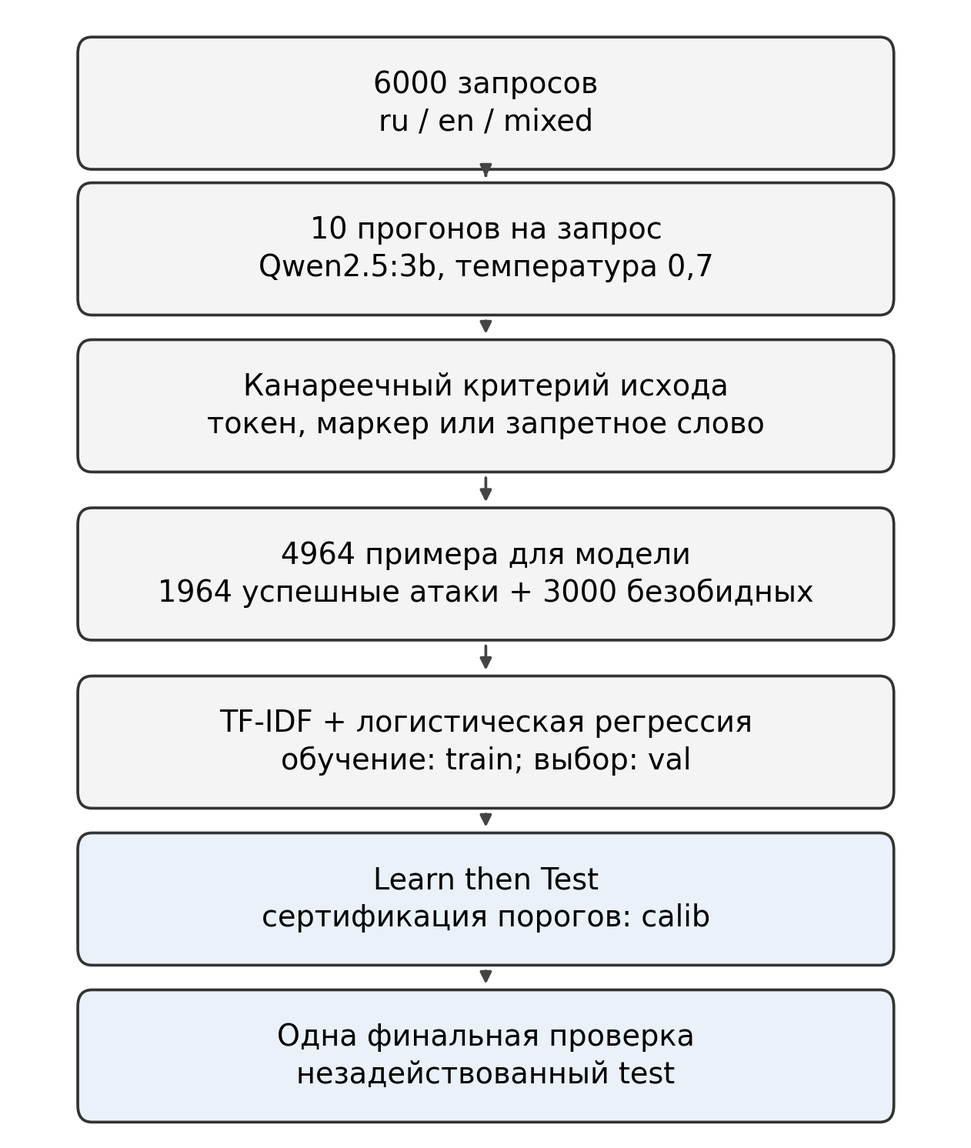
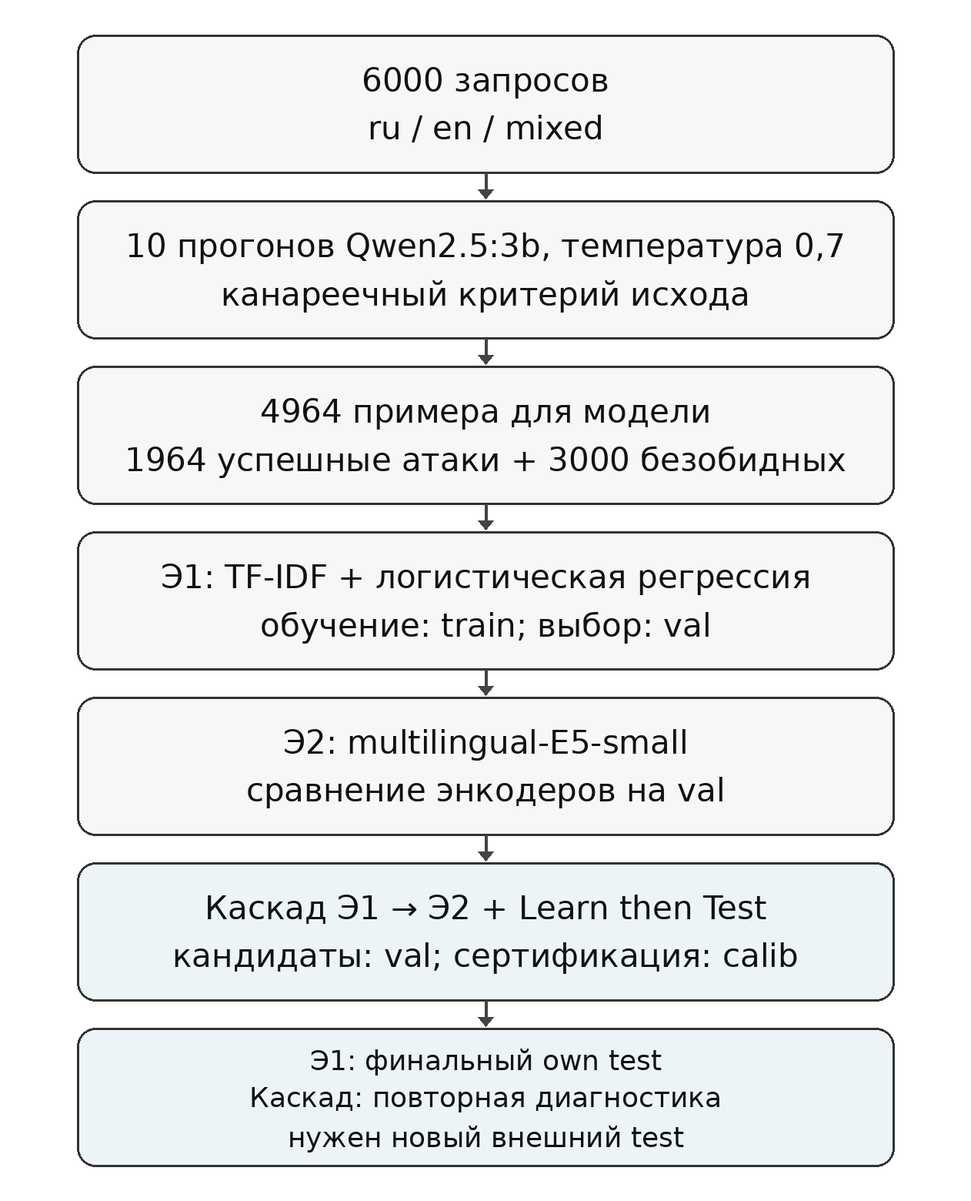
Добавить постановку задачи и публикацию PDF в CI

Changed region(s): [[0.0618, 0.0308, 0.9271, 0.9866], [0.8962, 0.0308, 0.9271, 0.0617]]

diff --git a/article.tex b/article.tex
@@ -11,7 +11,7 @@
 \misisauthor{Х.~Обада}{кафедра инженерной кибернетики НИТУ «МИСиС»}{Москва, Россия}{}
 
 \abstract{%
-Рассматривается построение фильтра прямых промпт-инъекций на входе локального LLM-сервиса при ограничении на вычислительный бюджет. В отличие от каскадных фильтров, в которых порядок эшелонов и границы зоны эскалации задаются эвристически, предлагается упорядочивать эшелоны по измеряемым стоимости и разрешающей способности оценки, а пороги маршрутизации выбирать процедурой распределённо-свободного контроля риска Learn then Test. Метод обеспечивает верхнюю границу доли пропущенных атак $\alpha$ с вероятностью не меньше $1-\delta$ при сохранении предположений калибровки. Для разметки по факту успеха используются утечка канареечного токена из системного промпта и другие детерминированные нарушения без LLM-судьи. Собственный русско-английский генератор включает смешанные запросы и выравнивание распределения длин между классами. Выполнено 60000 прогонов для 6000 запросов; экспериментально проверен первый эшелон на основе TF-IDF и логистической регрессии. На отложенном тесте из 973 запросов для $\alpha=0{,}05$ получены FNR $=0{,}76\%$, FPR $=0\%$ и взвешенный FNR $=0{,}92\%$; для $\alpha=0{,}02$ ошибок не зарегистрировано. Оценка средней задержки и доли запросов, доходящих до тяжёлого эшелона, относится к следующему этапу исследования полного каскада.
+Рассматривается построение фильтра прямых промпт-инъекций на входе локального LLM-сервиса при ограничении на вычислительный бюджет. В отличие от каскадных фильтров, в которых порядок эшелонов и границы зоны эскалации задаются эвристически, предлагается упорядочивать эшелоны по измеряемым стоимости и разрешающей способности оценки, а пороги маршрутизации выбирать процедурой распределённо-свободного контроля риска Learn then Test. Метод обеспечивает верхнюю границу доли пропущенных атак $\alpha$ с вероятностью не меньше $1-\delta$ при сохранении предположений калибровки. Для разметки по факту успеха используются утечка канареечного токена из системного промпта и другие детерминированные нарушения без LLM-судьи. Собственный русско-английский генератор включает смешанные запросы и выравнивание распределения длин между классами; выполнено 60000 прогонов для 6000 запросов. Построен каскад TF-IDF и multilingual-E5-small, в котором энкодер вызывается только для серой зоны первого эшелона. На calib для $\alpha=0{,}05$ получены FNR $=3{,}05\%$, FPR $=0\%$, доля эскалаций $3{,}33\%$ и стоимость $1{,}647$ мс на запрос; для $\alpha=0{,}02$ --- FNR $=0{,}25\%$, FPR $=0\%$, эскалации $1{,}27\%$ и $0{,}847$ мс. Повторная диагностика на ранее использованном own test дала FNR $1{,}53\%$ и $0\%$ соответственно при FPR $=0\%$; она не считается независимой проверкой.
 }
 
 \keywords{%
@@ -38,11 +38,11 @@
 \begin{figure}[t]
   \centering
   \includegraphics[width=0.94\columnwidth]{figures/method.png}
-  \caption{Конвейер разметки, обучения, калибровки и финальной проверки}
+  \caption{Конвейер разметки, выбора эшелонов, калибровки каскада и проверки}
   \label{fig:method}
 \end{figure}
 
-На момент подготовки работы автором не обнаружено решений, сочетающих такую калибровку каскада, разметку по факту успеха и отдельный контроль качества на русском и английском языках. Практическая реализация предусматривает шлюз с OpenAI-совместимым API. Экспериментальная часть настоящей статьи ограничена первым входным детектором; свойства полного каскада и стоимость эскалации исследуются отдельно.
+На момент подготовки работы автором не обнаружено решений, сочетающих такую калибровку каскада, разметку по факту успеха и отдельный контроль качества на русском и английском языках. Практическая реализация предусматривает шлюз с OpenAI-совместимым API. Экспериментальная часть включает выбор энкодера, калибровку полного каскада, измерение стоимости и доли эскалаций; независимая внешняя проверка остаётся отдельной задачей.
 
 \section{Связанные работы}
 
@@ -55,6 +55,12 @@ DataSentinel использует проверку известного отве
 Русскоязычные обзоры описывают методы фильтрации, изоляции контекста и обучения на возмущённых данных~\cite{mudarova2024, velichko2025}. Таксономия лингвистических уязвимостей и примеры атак на русском языке рассмотрены в~\cite{zyryanova2024}. В отличие от работ, ограниченных сравнением качества классификаторов, здесь дополнительно используется LTT: калибровка сводится к проверке статистических гипотез о риске~\cite{angelopoulos2025}, а кандидаты формируются до независимой калибровочной выборки, как в схеме Pareto Testing~\cite{laufer2023}.
 
 Прикладные нейросетевые решения и сравнение современных подходов к детекции представлены в сборниках кафедры~\cite{misis2024, korotkikh2025}. Более общая задача распределённого контроля доступа рассмотрена Hammoud и Tarkhanov~\cite{hammoud2025}. Настоящая работа отличается предметом защиты и использует статистический контроль именно доли пропущенных промпт-инъекций.
+
+\section{Постановка задачи}
+
+Рассматривается локальный LLM-сервис, на вход которого поступает пользовательский запрос $x$ на русском, английском или смешанном языке вместе со скрытой системной инструкцией. Требуется построить входной фильтр, который возвращает решение «пропустить» или «заблокировать» до обращения к защищаемой модели. Положительным классом является не любой запрос с предполагаемым вредоносным намерением, а прямая промпт-инъекция, фактически приведшая к заданному нарушению системной инструкции.
+
+Пусть $R$ --- доля пропущенных успешных атак, а $T$ --- вычислительная стоимость проверки одного запроса. Для заданных $\alpha$ и $\delta$ требуется выбрать состав эшелонов и их пороги так, чтобы с вероятностью не меньше $1-\delta$ выполнялось $R\leq\alpha$, минимизируя среднюю стоимость $\mathbb{E}[T]$ на целевом оборудовании. Доля ложных блокировок FPR и доля запросов, эскалированных на более дорогой эшелон, измеряются отдельно. Решение должно использовать общий порядок калибровки без ручного перебора порогов при смене языка, оборудования или защищаемой модели.
 
 \section{Метод}
 
@@ -79,7 +85,7 @@ DataSentinel использует проверку известного отве
 
 Исходный корпус содержит 6000 строк: 3000 кандидатов в атаки и 3000 безобидных запросов. Каждая строка десять раз обработана моделью Qwen2.5:3b~\cite{qwen2024} с температурой $0{,}7$. Всего получено 60000 ответов. После постобработки успешными оказались 1964 атаки, то есть $65{,}5\%$ кандидатов. Для обучения и оценки детектора использованы 4964 строки; 1036 неуспешных атак сохранены отдельно.
 
-Варианты одного шаблона объединены по \texttt{group\_id}. Разбиение выполнено алгоритмом StratifiedGroupKFold с пятью folds, \texttt{random\_state=42} и стратификацией по метке, языку и технике. Folds 0--1 образуют train, folds 2, 3 и 4 соответственно val, calib и test. Состав частей приведён в таблице~\ref{tab:split}. Пересечений групп между частями нет. Train служит для обучения, val --- для выбора конфигурации и кандидатов порогов, calib --- для сертификации, test --- для одной финальной проверки.
+Варианты одного шаблона объединены по \texttt{group\_id}. Разбиение выполнено алгоритмом StratifiedGroupKFold с пятью folds, \texttt{random\_state=42} и стратификацией по метке, языку и технике. Folds 0--1 образуют train, folds 2, 3 и 4 соответственно val, calib и test. Состав частей приведён в таблице~\ref{tab:split}. Пересечений групп между частями нет. Train служит для обучения, val --- для выбора конфигурации и кандидатов порогов, calib --- для сертификации. Test сначала применяется один раз для финальной проверки Э1, а затем только для повторной диагностики замороженного каскада; независимым тестом каскада он не является.
 
 \begin{table}[t]
   \caption{Групповое разбиение собственного корпуса}
@@ -97,13 +103,38 @@ DataSentinel использует проверку известного отве
   \end{tabular}
 \end{table}
 
-\subsection{Входной детектор}
+\subsection{Маршрутизация в эшелонированном фильтре}
+
+Предлагаемый фильтр содержит нормализатор и последовательность детекторов с возрастающей стоимостью проверки. Нормализация приводит Unicode к форме NFKC, удаляет невидимые символы и сводит визуально сходные буквы к единому написанию. Первый эшелон использует лексические признаки, второй --- мультиязычный энкодер. Их качество и стоимость измеряются на целевом оборудовании до включения в каскад; ниже проверяется полная маршрутизация Э1--Э2.
+
+Эшелон $i$ возвращает оценку $s_i(x)\in[0,1]$ и имеет два порога $\lambda_i^{lo}\leq\lambda_i^{hi}$. Его решение задаётся как
+\begin{equation}
+a_i(x)=
+\begin{cases}
+\text{пропустить}, & s_i(x)<\lambda_i^{lo},\\
+\text{эскалировать}, & \lambda_i^{lo}\leq s_i(x)<\lambda_i^{hi},\\
+\text{заблокировать}, & s_i(x)\geq\lambda_i^{hi}.
+\end{cases}
+\label{eq:routing}
+\end{equation}
+Таким образом, очевидные случаи обрабатываются дешёвым эшелоном, а следующий получает только серую зону. Это соответствует общей идее каскада Виолы--Джонса~\cite{viola2001}. В вырожденном случае $\lambda_i^{lo}=\lambda_i^{hi}$ серой зоны нет; именно такая конфигурация исследуется ниже для первого эшелона.
+
+Пусть $t_i$ --- средняя стоимость эшелона $i$, а $q_i$ --- доля запросов, дошедших до него, причём $q_1=1$. Средняя стоимость фильтрации равна
+\begin{equation}
+\mathbb{E}[T]=t_0+\sum_{i=1}^{M}q_i t_i,
+\label{eq:cost}
+\end{equation}
+где $t_0$ --- стоимость нормализации. Порядок эшелонов и кандидаты порогов выбираются на val по стоимости и разрешающей способности; затем LTT сертифицирует конфигурацию целиком на calib. Доли пропусков отдельных эшелонов не перемножаются, поскольку их ошибки могут быть зависимы: одна и та же трудная атака способна обмануть несколько детекторов. Итоговый FNR вычисляется только по окончательному решению каскада.
+
+Для двух эшелонов зафиксировано $\lambda_1^{lo}=0{,}5$. Три кандидата образованы парами уже выбранных на val порогов без нового поиска: $(\lambda_1^{hi},\lambda_2)$ равны $(0{,}6356704134;0{,}5260268237)$, $(0{,}6706789297;0{,}5776942018)$ и $(0{,}7237584272;0{,}6836875963)$. Их порядок соответствует возрастанию оценки $t_1+q_2t_2$ на val. На calib и test стоимость измеряется реальными вызовами: Э1 обрабатывает всю часть, Э2 --- только серую зону; сетевые расходы и нормализатор не входят в замер.
+
+\subsection{Первый эшелон}
 
 Детектор получает только текст запроса и возвращает оценку $s_\theta(x)$, интерпретируемую как оценку вероятности успешной атаки. Блокировка соответствует условию $s_\theta(x)\geq\lambda$. Использованы символьные TF-IDF-признаки \texttt{char\_wb} с $n$-граммами длиной 3--5, \texttt{sublinear\_tf=True}, $\texttt{min\_df}=3$ и не более чем 200000 признаками. Классификатор --- логистическая регрессия с $C=1$, взвешиванием классов и не более чем 2000 итерациями. Итоговая модель содержит 31634 признака.
 
 Для уменьшения ошибок на другом распределении к собственному train добавлены 3194 уникальные англоязычные записи из открытых наборов~\cite{neuralchemy, dolly15k}: 2678 безобидных и пограничных запросов и 516 jailbreak-запросов. Перед добавлением выполнены NFKC-нормализация, приведение к нижнему регистру, схлопывание пробелов и дедупликация. Использовались только обучающие части внешних наборов; пересечений с собственными val, calib и test нет. Общий train содержит 5158 записей. Следует учитывать, что внешние метки описывают намерение, тогда как собственные --- наблюдаемый исход.
 
-Три конфигурации детектора сравнивались на val по PR-AUC и затем ROC-AUC. Все получили значения, округляющиеся до $1{,}0$; в соответствии с заранее заданным порядком выбрана конфигурация 3--5. На val выбранной модели при $\lambda=0{,}5$ не допущено ни пропусков, ни ложных срабатываний.
+Три конфигурации детектора сравнивались на val по PR-AUC и затем ROC-AUC. Все получили значения, округляющиеся до $1{,}0$; в соответствии с заранее заданным порядком выбрана конфигурация 3--5. На val выбранной модели при $\lambda=0{,}5$ не допущено ни пропусков, ни ложных срабатываний. Пакетное вычисление оценок для 1005 запросов val на CPU заняло в среднем $0{,}320$ мс на запрос, включая построение TF-IDF-признаков и работу классификатора, но исключая сетевые расходы шлюза.
 
 \subsection{Калибровка Learn then Test}
 
@@ -112,7 +143,12 @@ DataSentinel использует проверку известного отве
   p(\lambda)=P\{\operatorname{Binomial}(n,\alpha)\leq m\}.
   \label{eq:pvalue}
 \end{equation}
-Гипотеза $R(\lambda)>\alpha$ отвергается при $p(\lambda)\leq\delta$. Процедура не доказывает равенство риска нулю: она отвергает превышение заданного $\alpha$ на доступной калибровочной выборке.
+Гипотеза $R(\lambda)>\alpha$ отвергается при $p(\lambda)\leq\delta$. Процедура не доказывает равенство риска нулю: она отвергает превышение заданного $\alpha$ на доступной калибровочной выборке. Даже при $m=0$ сертификация возможна только при достаточном объёме выборки:
+\begin{equation}
+  n\geq n_{\min}=\left\lceil\frac{\ln\delta}{\ln(1-\alpha)}\right\rceil.
+  \label{eq:nmin}
+\end{equation}
+При $\delta=0{,}05$ получаем $n_{\min}=59$, $149$ и $299$ для $\alpha=0{,}05$, $0{,}02$ и $0{,}01$ соответственно. Наличие пропусков увеличивает необходимый объём.
 
 Кандидаты заранее заморожены по val: $0{,}5$ и пороги, соответствующие val FNR $1\%$, $2\%$ и $5\%$: $0{,}6356704134$, $0{,}6706789297$ и $0{,}7237584272$. Для каждого $\alpha\in\{0{,}05;0{,}02;0{,}01\}$ они проверяются в порядке возрастания. После первого $p>\delta$ последовательность останавливается, а среди сертифицированных выбирается наибольший порог. Такой fixed-sequence тест не требует дополнительной поправки на число рассмотренных кандидатов. Гарантия предполагает перестановочность calib и рабочих данных и не распространяется автоматически на новый язык, другую модель или адаптивного противника.
 
@@ -132,13 +168,67 @@ DataSentinel использует проверку известного отве
 \end{equation}
 В отличие от обычного FNR, пропуск атаки, сработавшей в девяти из десяти прогонов, вносит больший вклад, чем пропуск атаки с одним успехом.
 
-Сначала модель и кандидаты порогов фиксируются по train и val. Затем один раз выполняется сертификация на calib. После этого выбранные пороги без изменений применяются к test. По test не выбираются модель, основной уровень $\alpha$ или новый порог. SHA-256 modeling CSV и сохранённой модели проверяются перед оценкой. После сохранения все test-оценки, решения и групповые confusion counts независимо воспроизведены повторной загрузкой модели.
+Сначала модель и кандидаты порогов фиксируются по train и val. Затем один раз выполняется сертификация на calib. Для каскада кандидаты проверяются в порядке возрастания val-стоимости; после первого $p>\delta$ последовательность останавливается, а последний сертифицированный кандидат выбирается для диагностики. По test не выбираются модель, основной уровень $\alpha$ или новый порог.
+
+Перед оценкой проверяются SHA-256 modeling CSV, моделей и отчётов предыдущих этапов. Для Э1 выполняется одна финальная проверка own test. Для каскада тот же test используется повторно и рассматривается только как диагностика уже замороженных конфигураций, а не как независимая проверка. Все 1022 calib-оценки и 973 test-оценки каждого эшелона, окончательные решения и групповые confusion counts независимо воспроизведены повторной загрузкой моделей.
 
 Дополнительная внешняя диагностика выполнена на 942 англоязычных запросах (552 атаки и 390 безобидных) из открытых наборов~\cite{neuralchemy, dolly15k}. Метки внешнего набора даны по намерению, поэтому его FNR несопоставим напрямую с исходной разметкой собственного корпуса. Этот набор участвовал в диагностике направления расширения train и рассматривается как данные разработки, а не как независимый финальный внешний тест.
 
 \section{Результаты}
 
-\subsection{Сертификация на calib}
+\subsection{Выбор энкодера второго эшелона}
+
+До калибровки каскада на том же общем train из 5158 запросов сравнены четыре замороженных энкодера: одноязычный all-MiniLM-L6-v2~\cite{minilm_en}, русскоязычный rubert-tiny2~\cite{rubert_tiny2}, paraphrase-multilingual-MiniLM-L12-v2~\cite{minilm_multi} и multilingual-e5-small~\cite{e5small, wang2024multilingual}. Для всех использованы L2-нормализованные эмбеддинги, максимальная длина 512 токенов и одинаковая логистическая регрессия с $C=1$ и взвешиванием классов. В соответствии с модельной карточкой только вход E5 получал префикс \texttt{query: }. Выбор выполнялся на own val по максимуму среднего PR-AUC русского и английского срезов, затем по минимальному PR-AUC этих срезов, общему PR-AUC и задержке. Own calib и own test в этом сравнении не использовались.
+
+\begin{table}[t]
+  \caption{Сравнение энкодеров Э2 на own val}
+  \label{tab:e2}
+  \centering
+  \resizebox{\columnwidth}{!}{%
+  \begin{tabular}{lrrrrrr}
+    \toprule
+    Энкодер & PR-AUC & ru & en & Время, мс & FN & FP \\
+    \midrule
+    MiniLM-L6 (en) & 0,9730 & 0,9408 & 0,9975 & 39,29 & 3 & 155 \\
+    rubert-tiny2 & 0,9977 & 0,9985 & 0,9981 & 9,31 & 3 & 25 \\
+    multiling. MiniLM-L12 & 0,9972 & 0,9945 & 0,9997 & 46,31 & 3 & 34 \\
+    multilingual-E5-small & \textbf{0,9999} & \textbf{0,9999} & \textbf{1,0000} & 45,02 & 3 & \textbf{0} \\
+    \bottomrule
+  \end{tabular}}
+\end{table}
+
+Результаты приведены в таблице~\ref{tab:e2}. Время --- средняя задержка одиночного запроса на CPU по 64 измерениям после warm-up, включая энкодер и классификатор. FN и FP соответствуют исследовательскому порогу с FNR не более $1\%$ на val. По заранее зафиксированному правилу выбран multilingual-E5-small: средний PR-AUC ru/en равен $0{,}999926$, ROC-AUC overall --- $0{,}999942$. Порог $0{,}526027$ даёт FN $=3/393$ и FP $=0/612$.
+
+При порогах Э1 $0{,}635670$ и Э2 $0{,}526027$ каждый детектор пропускает по три атаки, но общих пропусков нет: Э2 обнаруживает все три ошибки Э1, а Э1 --- все три ошибки Э2. Jaccard множеств ошибок равен нулю. До калибровки это указывает на комплементарность только на val. При этом PR-AUC Э1 на val равен $1{,}0$, поэтому превосходство Э2 над Э1 как одиночного детектора не утверждается.
+
+\subsection{Маршрутизация и сертификация каскада}
+
+На val строгий каскад с $\lambda_1^{hi}=0{,}635670$ и $\lambda_2=0{,}526027$ не допускает ни пропусков, ни ложных срабатываний, эскалируя лишь 3 запроса из 1005. Для двух других кандидатов получены FN $=1$ и $8$ при 7 и 19 эскалациях соответственно. Эти конфигурации далее проверены LTT на 1022 запросах calib в порядке возрастания val-стоимости.
+
+Результаты представлены в таблице~\ref{tab:cascade}. Для $\alpha=0{,}05$ все три кандидата сертифицированы; в соответствии с протоколом выбран последний, с p-value $0{,}040818$. Для $\alpha=0{,}02$ выбран строгий кандидат: следующий имеет $p=0{,}104344>\delta$ и останавливает последовательность. Для $\alpha=0{,}01$ уже первый кандидат имеет $p=0{,}094946>\delta$, поэтому на test он не оценивался. На calib и test FPR обеих выбранных конфигураций равен нулю.
+
+\begin{table}[t]
+  \caption{Калибровка каскада и повторная диагностика на own test}
+  \label{tab:cascade}
+  \centering
+  \resizebox{\columnwidth}{!}{%
+  \begin{tabular}{ccrrrrrrr}
+    \toprule
+    $\alpha$ & FNR-val & \multicolumn{2}{c}{Calib} & \multicolumn{2}{c}{Стоимость} & \multicolumn{3}{c}{Повторная диагностика test} \\
+    \cmidrule(lr){3-4}\cmidrule(lr){5-6}\cmidrule(lr){7-9}
+    & & FN & p-value & $q$, \% & мс & FN & $q$, \% & мс \\
+    \midrule
+    0,05 & 5\% & 12/394 & 0,040818 & 3,33 & 1,647 & 6/393 & 1,54 & 1,073 \\
+    0,02 & 1\% & 1/394 & 0,003157 & 1,27 & 0,847 & 0/393 & 0,31 & 0,355 \\
+    \bottomrule
+  \end{tabular}}
+\end{table}
+
+На calib FNR составляет $3{,}05\%$ и $0{,}25\%$, FNR$_w$ --- $2{,}36\%$ и $0{,}0786\%$ соответственно. Полный вызов Э2 на всех запросах занимает $29{,}884$ мс; каскад снижает среднюю стоимость примерно в $18{,}1$ и $35{,}3$ раза. При этом Э1-only дешевле, но имеет другое качество: строгий каскад при одном пропуске устраняет 7 ложных срабатываний Э1 при пороге $0{,}5$. Для конфигурации 5\% каскад даёт FN $=12$ и FP $=0$ против FN $=28$ у Э1-only и FN $=31$, FP $=9$ у Э2-only.
+
+Повторная диагностика на уже использованном для Э1 own test не является независимой проверкой. На ней FNR составляет $1{,}53\%$ и $0\%$, FNR$_w$ --- $1{,}59\%$ и $0\%$. Для $\alpha=0{,}05$ все шесть пропусков относятся к русским атакам. Для $\alpha=0{,}02$ эскалированы три русских запроса, пропусков нет; это не означает нулевой истинный риск и не использовалось для выбора порога.
+
+\subsection{Сертификация первого эшелона на calib}
 
 Результаты калибровки при $\delta=0{,}05$ представлены в таблице~\ref{tab:calib}. Для $\alpha=0{,}05$ выбран порог $0{,}6356704134$: семь пропусков из 394 атак, p-value $0{,}000764$. Следующий кандидат $0{,}6706789297$ имеет $p=0{,}0696>\delta$, поэтому последовательность остановлена. Для $\alpha=0{,}02$ сертифицирован только порог $0{,}5$; следующий кандидат не прошёл проверку. Для $\alpha=0{,}01$ уже начальный кандидат имеет $p=0{,}0949>\delta$, поэтому сертифицированного порога нет. Новые кандидаты по calib не подбирались.
 
@@ -158,7 +248,7 @@ DataSentinel использует проверку известного отве
   \end{tabular}}
 \end{table}
 
-\subsection{Финальная проверка на own test}
+\subsection{Финальная проверка первого эшелона на own test}
 
 В таблице~\ref{tab:test} приведены результаты одной финальной проверки на 973 ранее не использованных запросах. Для $\alpha=0{,}05$ детектор правильно заблокировал 390 из 393 успешных атак и не заблокировал ни одного из 580 безобидных запросов. FNR $=0{,}76\%$, FNR$_w=0{,}92\%$. Все три пропуска относятся к русским атакам с символами нулевой ширины: два имеют цель обхода политики и один --- извлечения системного промпта. На английском и смешанном срезах пропусков нет.
 
@@ -175,6 +265,24 @@ DataSentinel использует проверку известного отве
     \midrule
     0,05 & 0,635670 & 390 & 3 & 580 & 0 & 0,76 & 0 & 0,92 \\
     0,02 & 0,500000 & 393 & 0 & 580 & 0 & 0 & 0 & 0 \\
+    \bottomrule
+  \end{tabular}}
+\end{table}
+
+Разрез по языкам для $\alpha=0{,}05$ приведён в таблице~\ref{tab:lang}. Все три пропуска пришлись на русский срез: FNR $=3/165=1{,}82\%$. При этом 242 спорных безобидных запроса с лексикой атак не были заблокированы, как и 338 обычных безобидных запросов. Эти подгруппы слишком малы для самостоятельных статистических гарантий и служат диагностикой ошибок.
+
+\begin{table}[t]
+  \caption{Результаты по языкам на own test при $\alpha=0{,}05$}
+  \label{tab:lang}
+  \centering
+  \resizebox{\columnwidth}{!}{%
+  \begin{tabular}{lrrrrrr}
+    \toprule
+    Язык & Атаки & FN & FNR, \% & Безобидные & FP & FPR, \% \\
+    \midrule
+    Русский & 165 & 3 & 1,82 & 274 & 0 & 0 \\
+    Английский & 188 & 0 & 0 & 246 & 0 & 0 \\
+    Смешанный & 40 & 0 & 0 & 60 & 0 & 0 \\
     \bottomrule
   \end{tabular}}
 \end{table}
@@ -202,17 +310,17 @@ DataSentinel использует проверку известного отве
 
 \section{Обсуждение и ограничения}
 
-Полученные значения показывают работоспособность всего протокола: от объективной разметки до сертификации и отложенной проверки. Однако почти идеальные результаты на собственном test не должны интерпретироваться как такое же качество на реальных атаках. Корпус синтетический и построен из конечного набора шаблонов. Групповое разбиение предотвращает совместное попадание вариантов одного шаблона в разные части, но не воспроизводит все способы адаптивного обхода.
+Полученные значения показывают работоспособность всего протокола: от объективной разметки до сертификации и отложенной проверки. Однако почти идеальные результаты на собственном test не должны интерпретироваться как такое же качество на реальных атаках. Корпус синтетический и построен из конечного набора шаблонов. Групповое разбиение предотвращает совместное попадание вариантов одного шаблона в разные части, но не воспроизводит все способы адаптивного обхода. Более того, внутри calib и test остаётся несколько коррелированных строк с общим \texttt{group\_id}. Биномиальная формула предполагает независимые наблюдения, поэтому для строгой сертификации шаблонного распределения в следующем эксперименте необходимо оставлять по одному представителю группы либо использовать групповую процедуру контроля риска. Текущие p-values следует рассматривать с этой оговоркой.
 
 Метка зависит от защищаемой модели, числа прогонов и суррогатных целей. Атака, неуспешная против Qwen2.5:3b, может быть успешной против другой модели. Перенос гарантии на новую модель требует новой разметки и калибровки. Кроме того, 406 исходов утечки приняты по первоначальной проверке полного ответа, хотя сохранённый фрагмент обрезан и не позволяет независимо увидеть канарейку.
 
-Внешние обучающие записи имеют intent-разметку, поэтому смешение двух смыслов меток является ограничением. Внешняя диагностическая выборка уже использована при разработке; для честного внешнего утверждения необходим новый набор. Наконец, число успешных атак в языковых подгруппах calib ограничено, а для $\alpha=0{,}01$ текущий набор кандидатов не сертифицирован. Дальнейшая работа включает несколько защищаемых моделей, отдельную калибровку по языкам, измерение средней задержки и доли запросов, доходящих до тяжёлого эшелона. Планируемые внешние проверки: не менее 30 реальных русских инъекций, атаки LLAMATOR~\cite{llamator}, BIPIA~\cite{bipia}, корпус Dmtr\_Dr~\cite{dmtrdr} и NotInject~\cite{li2025piguard}. Практическим развитием является прототип шлюза с OpenAI-совместимым API.
+Внешние обучающие записи имеют intent-разметку, поэтому смешение двух смыслов меток является ограничением. Внешняя диагностическая выборка уже использована при разработке; для честного внешнего утверждения необходим новый набор. Сравнение энкодеров выполнено только на val, а own test уже применялся для Э1 перед повторной диагностикой каскада. Поэтому результаты каскада на этом test не считаются независимым подтверждением. Наконец, число успешных атак в языковых подгруппах calib ограничено, а для $\alpha=0{,}01$ текущий набор кандидатов не сертифицирован. Дальнейшая работа включает новый внешний тест замороженного каскада, несколько защищаемых моделей, групповую и отдельную языковую калибровку. Планируемые внешние проверки: не менее 30 реальных русских инъекций, атаки LLAMATOR~\cite{llamator}, BIPIA~\cite{bipia}, корпус Dmtr\_Dr~\cite{dmtrdr} и NotInject~\cite{li2025piguard}. Практическим развитием является прототип шлюза с OpenAI-совместимым API.
 
 \section{Заключение}
 
-Предложен и экспериментально проверен конвейер обучения входного детектора промпт-инъекций с разметкой по фактическому исходу атаки. Канареечные суррогатные цели позволяют ставить воспроизводимые метки без LLM-судьи, а повторные прогоны дополнительно измеряют силу атаки. Для русско-английского корпуса выполнено 60000 прогонов; после исключения неуспешных атак сформирован набор из 4964 примеров с групповым разбиением.
+Предложена и экспериментально проверена схема эшелонированной маршрутизации с двумя порогами и оценкой средней стоимости через доли эскалаций. Канареечные суррогатные цели позволяют ставить воспроизводимые метки без LLM-судьи, а повторные прогоны измеряют силу атаки. Для русско-английского корпуса выполнено 60000 прогонов; после исключения неуспешных атак сформирован набор из 4964 примеров с групповым разбиением. Для второго эшелона выбран multilingual-E5-small с PR-AUC $0{,}9999$ на val.
 
-Процедура Learn then Test сертифицировала пороги для $\alpha=0{,}05$ и $0{,}02$ при $\delta=0{,}05$. На финальном собственном test получены FNR $0{,}76\%$ и $0\%$ соответственно, без ложных срабатываний в обоих вариантах. Эти результаты подтверждают применимость метода на исследованном распределении, но не устраняют необходимость независимой внешней проверки и не распространяются на адаптивные атаки или другие защищаемые модели.
+Процедура Learn then Test сертифицировала конфигурации каскада для $\alpha=0{,}05$ и $0{,}02$ при $\delta=0{,}05$. На calib получены FNR $3{,}05\%$ и $0{,}25\%$, FPR $0\%$, доли эскалаций $3{,}33\%$ и $1{,}27\%$, средняя стоимость $1{,}647$ и $0{,}847$ мс на запрос. Это примерно в $18{,}1$ и $35{,}3$ раза дешевле применения E5 ко всем запросам. Повторная диагностика на ранее использованном own test дала FNR $1{,}53\%$ и $0\%$ при FPR $0\%$, но не заменяет независимую внешнюю проверку. Гарантия не распространяется на адаптивные атаки или другие защищаемые модели и требует учёта корреляции внутри групп.
 
 \begin{thebibliography}{99}
 
@@ -255,6 +363,18 @@ DataSentinel использует проверку известного отве
 \bibitem{bipia} Yi J. et al. Benchmarking and defending against indirect prompt injection attacks on large language models // \textit{Proceedings of the 31st ACM SIGKDD Conference on Knowledge Discovery and Data Mining}. 2025. DOI: \href{https://doi.org/10.1145/3690624.3709179}{10.1145/3690624.3709179}.
 
 \bibitem{dmtrdr} Dmtr\_Dr. \textit{Prompt injections: русскоязычный корпус}. GitHub. URL: \url{https://github.com/Dmtr-Dr/prompt-injections} (дата обращения: 04.11.2026).
+
+\bibitem{viola2001} Viola P., Jones M. Rapid object detection using a boosted cascade of simple features // \textit{Proceedings of the 2001 IEEE Computer Society Conference on Computer Vision and Pattern Recognition}. 2001. Vol. 1. P. I-511--I-518. DOI: \href{https://doi.org/10.1109/CVPR.2001.990517}{10.1109/CVPR.2001.990517}.
+
+\bibitem{minilm_en} Reimers N. \textit{all-MiniLM-L6-v2}. Sentence Transformers, Hugging Face. URL: \url{https://huggingface.co/sentence-transformers/all-MiniLM-L6-v2} (дата обращения: 05.11.2026).
+
+\bibitem{rubert_tiny2} cointegrated. \textit{rubert-tiny2}. Hugging Face. URL: \url{https://huggingface.co/cointegrated/rubert-tiny2} (дата обращения: 05.11.2026).
+
+\bibitem{minilm_multi} Reimers N. \textit{paraphrase-multilingual-MiniLM-L12-v2}. Sentence Transformers, Hugging Face. URL: \url{https://huggingface.co/sentence-transformers/paraphrase-multilingual-MiniLM-L12-v2} (дата обращения: 05.11.2026).
+
+\bibitem{e5small} Wang L. et al. \textit{multilingual-e5-small}. Hugging Face. URL: \url{https://huggingface.co/intfloat/multilingual-e5-small} (дата обращения: 05.11.2026).
+
+\bibitem{wang2024multilingual} Wang L., Yang N., Huang X., Yang L., Majumder R., Wei F. Multilingual E5 text embeddings: A technical report // \textit{arXiv:2402.05672}. 2024. DOI: \href{https://doi.org/10.48550/arXiv.2402.05672}{10.48550/arXiv.2402.05672}.
 
 \end{thebibliography}
 \end{document}
